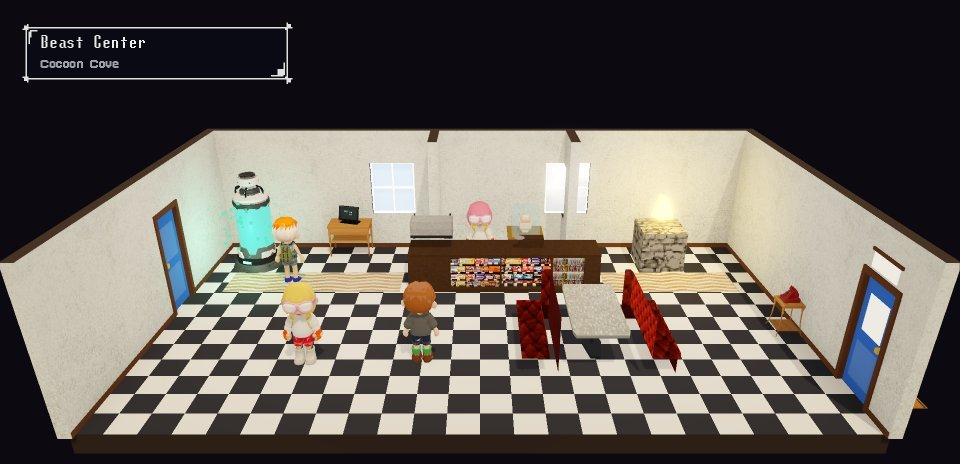
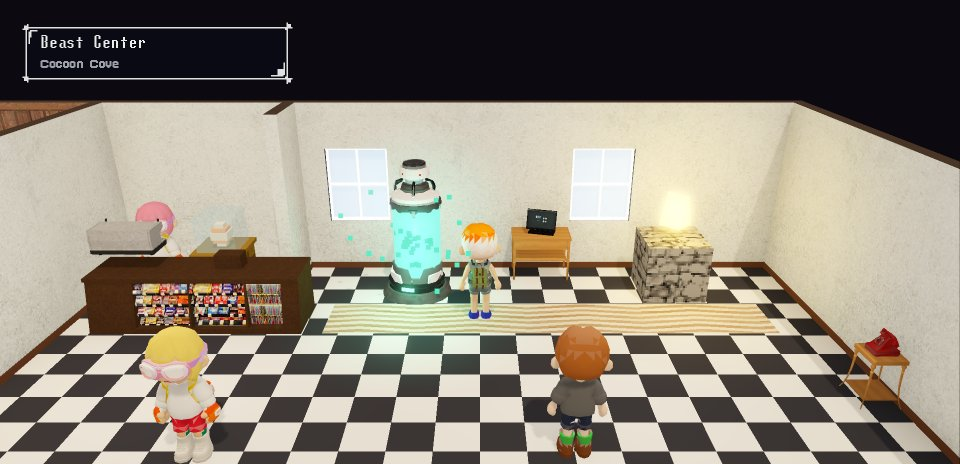
Beast Center: one bigger room, the kennel behind a wall, no booths
Every Beast Center is now one room, 17x9 tiles (bigger than the other rooms, so its camera follows you round it):
- The kennel is no longer a room of its own through a door: it's the left side, on its own wood floor, with its four
  pens behind Pip's counter. A wall runs forward from the back between it and the diner and stops short of the front,
  so you walk round its end.
- Each machine has its own bay along the diner's back wall again: Nurse Clover's counter and incubator, the healing
  machine, the storage terminal and the merge altar; the red phone stands by the entrance.
- The red booths and their tables are gone; two chairs wait in the kennel's front corner.
- Guide Dottie's tour and the nurse's greeting describe the new layout, and Dottie now says to save by calling Dad on
  the red phone (not in the book).
- README: the Beast Center section, and its screenshot retaken.

diff --git a/README.md b/README.md
@@ -257,15 +257,15 @@ obstacles (driftwood, sand drifts, boulders, dust storms, ravines) still turn up
 - **Fast travel**:
   - Climb a **Sky Tower**: Skykeeper Aria's ticket desk is in the lobby, and the stairs lead up to an open-air platform on the roof, where the Tempestrix flies you to any town you've visited, for a fee.
   - Once you own an air beast of **Lv 40+**, pick *Fly* on the Trainer page of the Start book to travel from anywhere outdoors.
-- **Beast Centers** all look the same: a 1950s roadside diner with the pawprint sign by the door. Each machine has its own bay along the back wall.
+- **Beast Centers** all look the same: a 1950s roadside diner with the pawprint sign by the door, to the tune of "Hep Cats". It's one big room (17x9 tiles, bigger than the rest, so the camera follows you round it), the kennel on the left behind a wall that stops short of the front. Each machine has its own bay along the back wall.
   - The **healing machine** is a tall glass healing chamber with a lamp per beast round its foot; the glass glows while it heals. Use it yourself, any time, for free.
-  - The **storage terminal** and the **merge altar** each have a bay of their own.
+  - The **storage terminal** and the **merge altar** stand in the bays beside it.
   - Nurse Clover at the counter hatches eggs in the **incubator** beside her (it sparkles when an egg hatches), and runs storage and the merge altar. A red phone stands by the door, for calling Dad (see Saving).
-  - Through the door in the left wall is the **kennel**, a room of its own. Kennel Keeper Pip looks after beasts other trainers left behind; they wait in the pens behind his counter, close to your party's level. Adopt one, or drop one of yours off for another trainer (Pip thanks you with a little gold). Tapping a pen walks you over to Pip. Empty pens fill up again after a few minutes of play.
-  - Guide Dottie walks about the room by the entrance and explains how it all works.
+  - Round the end of the wall, on its own wood floor, is the **kennel**, with two chairs in its front corner. Kennel Keeper Pip looks after beasts other trainers left behind; they wait in the pens behind his counter, close to your party's level. Adopt one, or drop one of yours off for another trainer (Pip thanks you with a little gold). Tapping a pen walks you over to Pip. Empty pens fill up again after a few minutes of play.
+  - Guide Dottie walks about the room and explains how it all works.
   - All three wear the Beast Center uniform: a white polo with red collar and cuffs, a name badge and a diner paper hat (Pip adds a green apron).
 
-  <img src="docs/screenshots/heal.jpg" width="640" alt="Cocoon Cove's Beast Center: the healing machine glowing at the back, Nurse Clover's counter, the booths and the red phone by the door."><br><sub>Cocoon Cove's Beast Center: the healing machine glowing at the back, Nurse Clover's counter, the booths and the red phone by the door.</sub>
+  <img src="docs/screenshots/heal.jpg" width="640" alt="Cocoon Cove's Beast Center: Nurse Clover's counter, the healing machine glowing in its bay, the storage terminal, the merge altar and the red phone."><br><sub>Cocoon Cove's Beast Center: Nurse Clover's counter, the healing machine glowing in its bay, the storage terminal, the merge altar and the red phone.</sub>
 
 - **Saving**: your dad is away up north for work, and **calling him is how you save**. Tell him how your journey's going, he cheers you on, and the game is saved; then keep playing, or stop for now (back to the title screen).
   - Saving is free. Red phones stand in homes, every Beast Center, the apothecary, café and music shop, the arenas' lobbies and the doorways of the temples of winds, flame and roots. Only the red **payphone** by each town's square costs anything: 5 coins a call (no coins, no call).
@@ -277,7 +277,7 @@ obstacles (driftwood, sand drifts, boulders, dust storms, ravines) still turn up
   <img src="docs/screenshots/call.jpg" width="640" alt="Calling Dad from the phone at home: that's how you save."><br><sub>Calling Dad from the phone at home: that's how you save.</sub>
 
 - **Shops** differ per town. Small towns have a few; cities have many. Each building has a wordless sign fixed flat to its front above the door, showing what it is (houses have none).
-- **Inside**, every house and shop is a compact room seen whole, like a stage set: no front wall, the camera holding still, and the front door in a side wall. Blue doors open (a door to another room loads that room on its own); red ones are locked. Every room has windows in at least one wall, never in a wall with a door to another room (the front door may share theirs). Homes have no kitchens to wander into: many townsfolk live in studios, bed and sofa in one room, while others have a bedroom through a door or up a flight of stairs. Stairs always come up into a landing, a hallway half a room deep, with the floor's rooms through doors off it. Your own home has the living room downstairs, with Mom and the phone; upstairs, your bedroom (where you wake up), Mom's room and the bathroom open off the landing. The big dungeons (temples, the hideout, Gearhart Tower, the Sky Tower and the cathedral) keep their own layouts, open at the front too.
+- **Inside**, every house and shop is a compact room seen whole, like a stage set: no front wall, the camera holding still, and the front door in a side wall (the Beast Centers are bigger, and there the camera follows you). Blue doors open (a door to another room loads that room on its own); red ones are locked. Every room has windows in at least one wall, never in a wall with a door to another room (the front door may share theirs). Homes have no kitchens to wander into: many townsfolk live in studios, bed and sofa in one room, while others have a bedroom through a door or up a flight of stairs. Stairs always come up into a landing, a hallway half a room deep, with the floor's rooms through doors off it. Your own home has the living room downstairs, with Mom and the phone; upstairs, your bedroom (where you wake up), Mom's room and the bathroom open off the landing. The big dungeons (temples, the hideout, Gearhart Tower, the Sky Tower and the cathedral) keep their own layouts, open at the front too.
   - Everyone who works in a shop stands behind a counter and wears their shop's uniform: a polo in the shop's colour with a contrasting collar and cuffs, short sleeves, a name badge and usually a visor (the sensei and the fortune teller wear headbands, the music hall's usher a pillbox hat).
 
   <img src="docs/screenshots/bedroom.jpg" width="640" alt="Upstairs at home: your bedroom, where you wake up. The blue door leads out to the landing."><br><sub>Upstairs at home: your bedroom, where you wake up. The blue door leads out to the landing.</sub>
